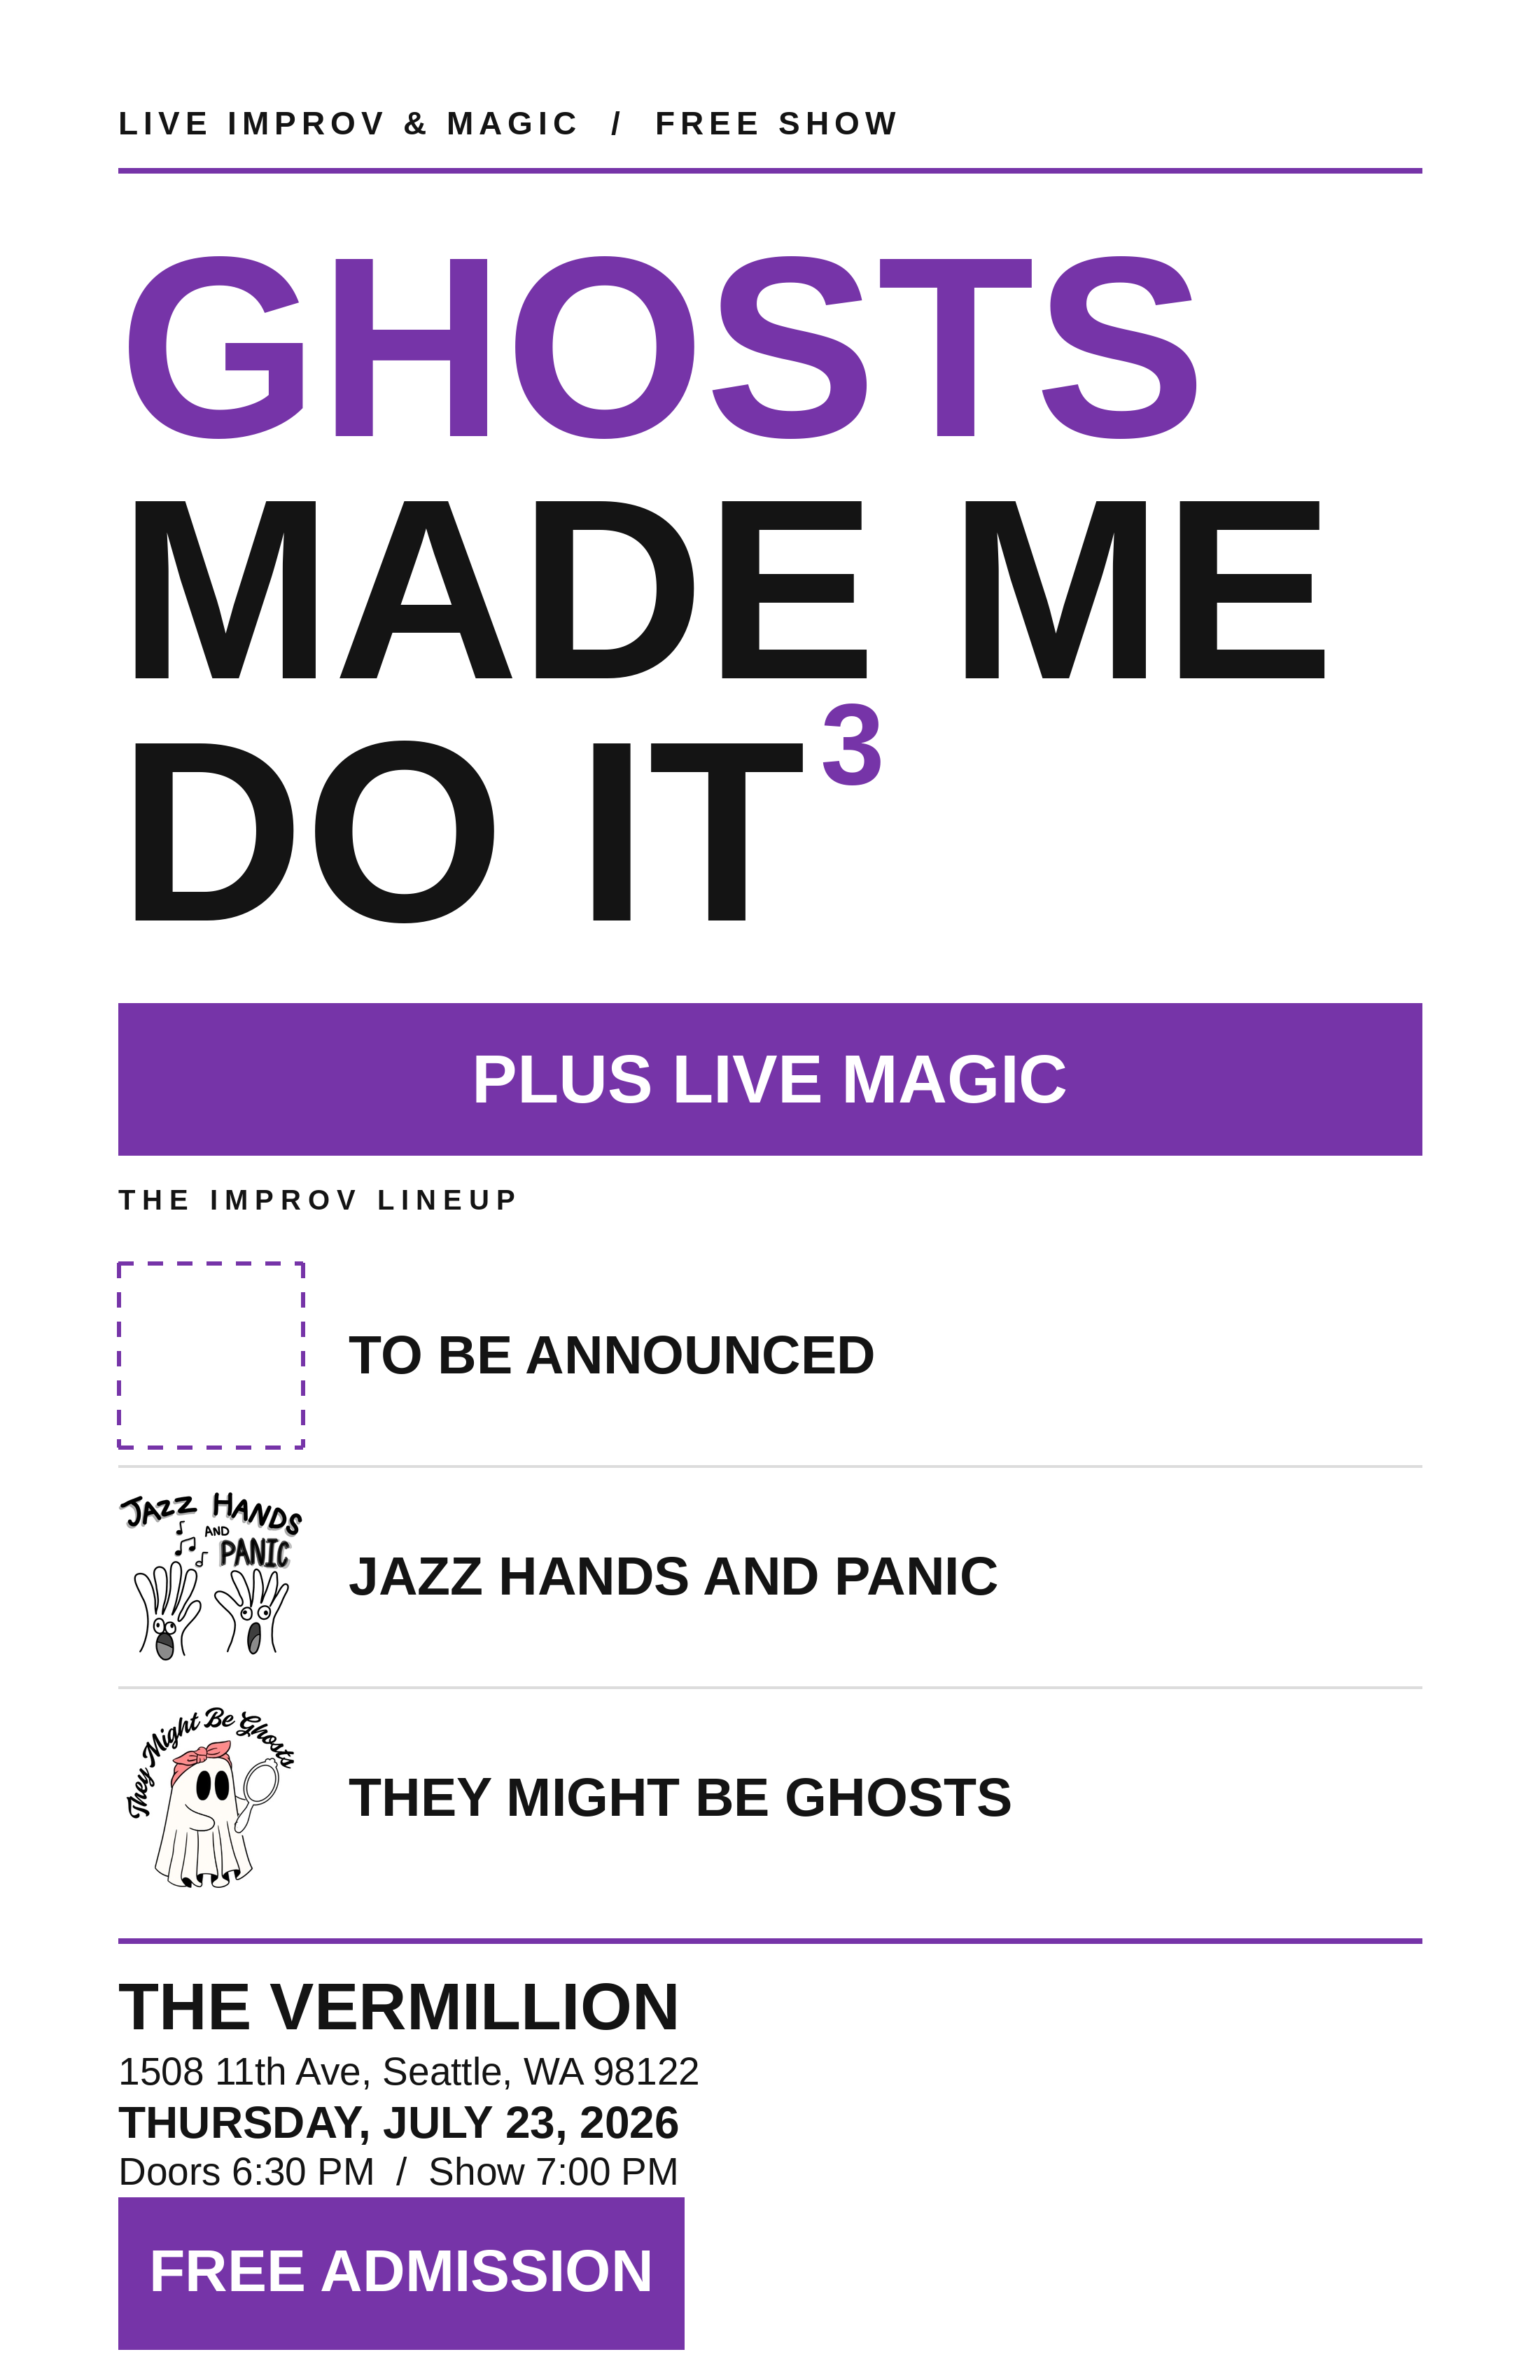
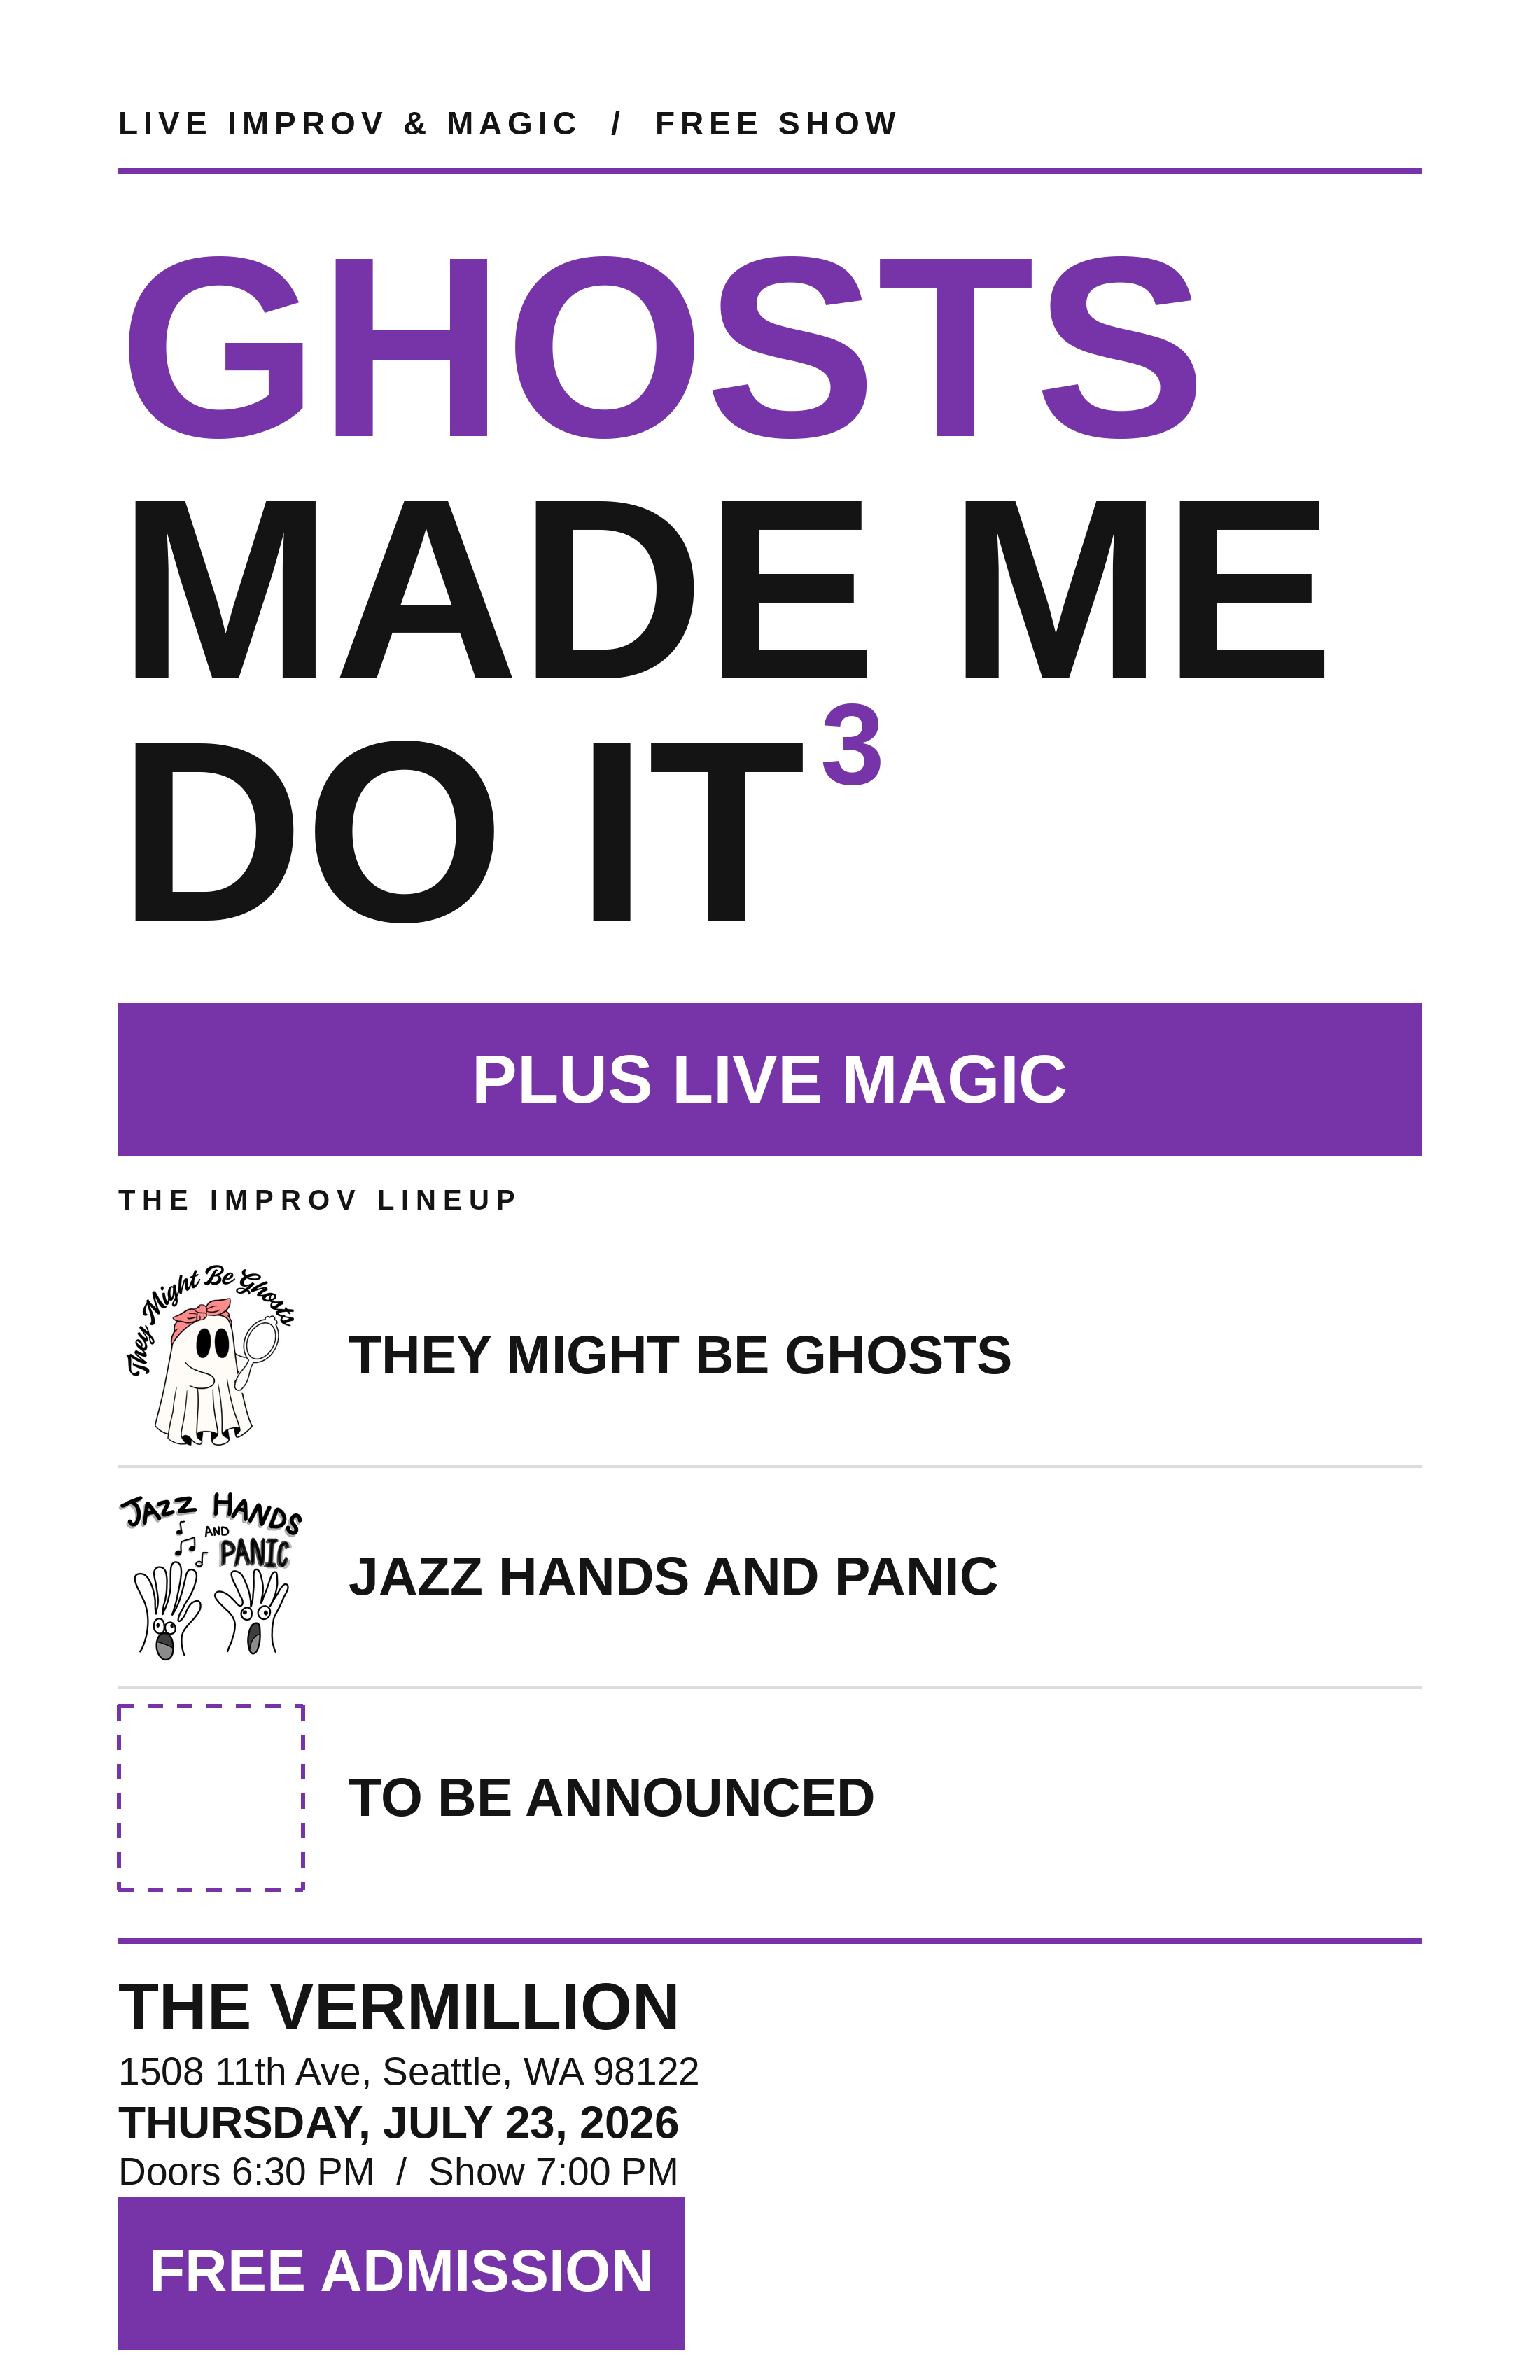
Clean up the application a bit - in particular, the upcoming events are now auto-sorted

diff --git a/assets/css/custom.css b/assets/css/custom.css
@@ -1,5 +1,63 @@
+*,
+*::before,
+*::after {
+  box-sizing: border-box;
+}
+
 body {
   background-color: #fff0db;
+}
+
+.cta-banner {
+  display: flex;
+  align-items: center;
+  justify-content: space-between;
+  flex-wrap: wrap;
+  gap: 1em;
+  max-width: 700px;
+  background: #fff8f0;
+  border: 1px solid #f0dcc0;
+  border-radius: 12px;
+  padding: 1.2em 1.5em;
+  margin-bottom: 1.5em;
+  box-shadow: 0 2px 8px rgba(0,0,0,0.08);
+}
+.cta-banner p {
+  margin: 0;
+  font-size: 1.15em;
+  font-weight: 600;
+}
+.cta-button,
+.cta-button:link,
+.cta-button:visited {
+  background: #1976d2;
+  color: #fff;
+  text-decoration: none;
+  font-weight: 700;
+  padding: 0.6em 1.3em;
+  border-radius: 8px;
+  white-space: nowrap;
+  transition: background 0.18s;
+}
+.cta-button:hover,
+.cta-button:focus,
+.cta-button:visited:hover,
+.cta-button:visited:focus {
+  background: #145ea8;
+  color: #fff;
+  text-decoration: none;
+}
+@media (max-width: 600px) {
+  .cta-banner {
+    flex-direction: column;
+    align-items: stretch;
+    text-align: center;
+    padding: 1em;
+  }
+  .cta-button {
+    width: 100%;
+    text-align: center;
+  }
 }
 
 .event-section-title {
@@ -47,7 +105,7 @@ body {
   .event-poster {
     flex-basis: auto;
     width: 100%;
-    /* max-height: 800px; */
+    max-height: 50vh;
     overflow: hidden;
   }
   .event-details {
@@ -164,8 +222,11 @@ body {
   white-space: nowrap;
 }
 .site-nav {
-  margin-left: auto;
-  flex: 1 1 0;
+  margin-left: auto;    /* Pushes nav to the right on desktop */
+  display: flex;
+  gap: 1em;
+  flex: 1 1 auto;
+  flex-wrap: wrap;
   min-width: 120px;
 }
 
@@ -187,22 +248,6 @@ body {
     margin-left: 0;
     margin-top: 0.5em;
   }
-}
-
-.site-header-flex {
-  display: flex;
-  align-items: center;
-  gap: 0.8em;
-  flex-wrap: wrap;
-  min-height: 55px;
-}
-
-.site-nav {
-  margin-left: auto;    /* Pushes nav to the right on desktop */
-  display: flex;
-  gap: 1em;
-  flex: 1 1 auto;
-  flex-wrap: wrap;
 }
 
 .site-nav-link {

diff --git a/assets/js/custom.js b/assets/js/custom.js
@@ -1,4 +1,42 @@
 document.addEventListener("DOMContentLoaded", function() {
+  var allEvents = document.getElementById('all-events');
+
+  if (allEvents) {
+    var upcomingList = document.getElementById('upcoming-events');
+    var pastList = document.getElementById('past-events');
+    var now = new Date();
+
+    var dateOptions = { weekday: 'long', year: 'numeric', month: 'long', day: 'numeric', timeZone: 'America/Los_Angeles' };
+    var timeOptions = { hour: 'numeric', minute: '2-digit', timeZone: 'America/Los_Angeles' };
+
+    var cards = Array.prototype.slice.call(allEvents.querySelectorAll('.event-card'));
+
+    cards.forEach(function(card) {
+      var showDate = new Date(card.getAttribute('data-datetime'));
+      var doors = card.getAttribute('data-doors');
+      var text = showDate.toLocaleDateString('en-US', dateOptions) + ' @ ' + showDate.toLocaleTimeString('en-US', timeOptions);
+
+      if (doors) {
+        text += ' (doors @ ' + doors + ')';
+      }
+
+      card.querySelector('.event-date').textContent = text;
+    });
+
+    var upcomingCards = cards
+      .filter(function(card) { return new Date(card.getAttribute('data-datetime')) >= now; })
+      .sort(function(a, b) { return new Date(a.getAttribute('data-datetime')) - new Date(b.getAttribute('data-datetime')); });
+
+    var pastCards = cards
+      .filter(function(card) { return new Date(card.getAttribute('data-datetime')) < now; })
+      .sort(function(a, b) { return new Date(b.getAttribute('data-datetime')) - new Date(a.getAttribute('data-datetime')); });
+
+    upcomingCards.forEach(function(card) { upcomingList.appendChild(card); });
+    pastCards.forEach(function(card) { pastList.appendChild(card); });
+
+    allEvents.remove();
+  }
+
   var overlay = document.getElementById('lightbox-overlay');
   var fullImg = document.getElementById('lightbox-img');
 

diff --git a/_includes/head.html b/_includes/head.html
@@ -1,10 +1,12 @@
 <head>
+  {% assign now_epoch = site.time | date: '%s' %}
+
   <meta charset="utf-8">
   <meta http-equiv="X-UA-Compatible" content="IE=edge">
   <meta name="viewport" content="width=device-width, initial-scale=1">
-  <link rel="stylesheet" href="{{ "/assets/main.css" | relative_url }}">
-  <link rel="stylesheet" href="{{ "/assets/css/custom.css" | relative_url }}">
-  <script src="{{ "/assets/js/custom.js" | relative_url }}"></script>
+  <link rel="stylesheet" href="{{ "/assets/main.css" | relative_url }}?v={{ now_epoch }}">
+  <link rel="stylesheet" href="{{ "/assets/css/custom.css" | relative_url }}?v={{ now_epoch }}">
+  <script src="{{ "/assets/js/custom.js" | relative_url }}?v={{ now_epoch }}"></script>
 
   <title>They Might Be Ghosts!</title>
 
@@ -15,12 +17,23 @@
     <meta name="keywords" content="{{ page.tags | join: ', ' | escape }}">
   {% endif %}
 
-  {% if site.data.events.upcoming[0] %}
+  {% assign sorted_shows = site.data.events.shows | sort: 'date' %}
+  {% assign next_show = nil %}
+  {% for show in sorted_shows %}
+    {% assign show_epoch = show.date | date: '%s' %}
+    {% if show_epoch >= now_epoch %}
+      {% assign next_show = show %}
+      {% break %}
+    {% endif %}
+  {% endfor %}
+
+  {% if next_show %}
     <meta property="og:title" content="They Might Be Ghosts!">
-    <meta property="og:description" content="Next show: {{ site.data.events.upcoming[0].title }}">
-    <meta property="og:image" content="https://theymightbeghosts.com/assets/img/{{ site.data.events.upcoming[0].image }}">
+    <meta property="og:description" content="Next show: {{ next_show.title }}">
+    <meta property="og:image" content="{{ site.url }}/assets/img/{{ next_show.image }}">
     <meta name="twitter:card" content="summary_large_image">
   {% else %}
     <meta name="description" content="{{ page.description | escape }} for They Might Be Ghosts, an independent Seattle improv troupe!">
+    <meta property="og:image" content="{{ site.url }}/assets/img/logo.webp">
   {% endif %}
 </head>

diff --git a/_includes/social.html b/_includes/social.html
@@ -1,8 +1,8 @@
 <ul class="social-media-list">
   <li>
-    <a href="mailto:[email redacted]">
+    <a href="mailto:{{ site.email | escape }}">
       <svg xmlns="http://www.w3.org/2000/svg" class="svg-icon" viewBox="0 0 640 640"><!--!Font Awesome Free v7.1.0 by @fontawesome - https://fontawesome.com License - https://fontawesome.com/license/free Copyright 2025 Fonticons, Inc.--><path d="M125.4 128C91.5 128 64 155.5 64 189.4C64 190.3 64 191.1 64.1 192L64 192L64 448C64 483.3 92.7 512 128 512L512 512C547.3 512 576 483.3 576 448L576 192L575.9 192C575.9 191.1 576 190.3 576 189.4C576 155.5 548.5 128 514.6 128L125.4 128zM528 256.3L528 448C528 456.8 520.8 464 512 464L128 464C119.2 464 112 456.8 112 448L112 256.3L266.8 373.7C298.2 397.6 341.7 397.6 373.2 373.7L528 256.3zM112 189.4C112 182 118 176 125.4 176L514.6 176C522 176 528 182 528 189.4C528 193.6 526 197.6 522.7 200.1L344.2 335.5C329.9 346.3 310.1 346.3 295.8 335.5L117.3 200.1C114 197.6 112 193.6 112 189.4z"/></svg>
-      <span class="username">[email redacted]</a>
+      <span class="username">{{ site.email | escape }}</span>
     </a>
   </li>
   <li>

diff --git a/index.md b/index.md
@@ -13,11 +13,14 @@ keywords:
 description: Upcoming events
 ---
 
-<h2 class="event-section-title">Upcoming events</h2>
+<div class="cta-banner">
+  <p>Interested in performing at one of our shows?</p>
+  <a class="cta-button" href="https://forms.gle/DPf2o3YCnerusMyw8" target="_blank" rel="noopener">Fill out this form!</a>
+</div>
 
-<div class="event-list">
-  {% for event in site.data.events.upcoming %}
-    <div class="event-card">
+<div id="all-events" hidden>
+  {% for event in site.data.events.shows %}
+    <div class="event-card" data-datetime="{{ event.date | date_to_xmlschema }}" data-doors="{{ event.doors }}">
       <div class="event-poster">
         <img
           src="assets/img/{{ event.image | default: 'logo.webp' }}"
@@ -28,7 +31,7 @@ description: Upcoming events
       </div>
       <div class="event-details">
         <h2>{{ event.title }}</h2>
-        <p><strong>Date:</strong> {{ event.date }}</p>
+        <p><strong>Date:</strong> <span class="event-date"></span></p>
 
         {% if event.venue_url %}
           <p><strong>Venue:</strong> <a href="{{ event.venue_url }}">{{ event.venue }}</a></p>
@@ -48,28 +51,10 @@ description: Upcoming events
   {% endfor %}
 </div>
 
+<h2 class="event-section-title">Upcoming events</h2>
+
+<div class="event-list" id="upcoming-events"></div>
+
 <h2 class="event-section-title">Past events</h2>
 
-<div class="event-list">
-  {% for event in site.data.events.past %}
-    <div class="event-card">
-      <div class="event-poster">
-        <img
-          src="assets/img/{{ event.image | default: 'logo.webp' }}"
-          alt="Poster for {{ event.title }}"
-          class="event-poster-img"
-          data-full="/assets/img/{{ event.image | default: 'logo.webp' }}"
-        >
-      </div>
-      <div class="event-details">
-        <h2>{{ event.title }}</h2>
-        <p><strong>Date:</strong> {{ event.date }}</p>
-        <p><strong>Venue:</strong> {{ event.venue }}</p>
-
-        {% if event.url %}
-            <a class="event-link" href="{{ event.url }}">More info</a>
-        {% endif %}
-      </div>
-    </div>
-  {% endfor %}
-</div>
+<div class="event-list" id="past-events"></div>

diff --git a/gallery.md b/gallery.md
@@ -73,7 +73,7 @@ document.addEventListener("DOMContentLoaded", function() {
   {% for file in site.static_files %}
     {% if file.path contains 'assets/img/gallery/' %}
       {% if file.path contains 'tn-' %}
-        <a href="{{ file.path }}" class="gallery-thumb" target="_blank">
+        <a href="{{ file.path }}" class="gallery-thumb" target="_blank" rel="noopener">
           <img src="{{ file.path }}" alt="Gallery image">
         </a>
       {% endif %}